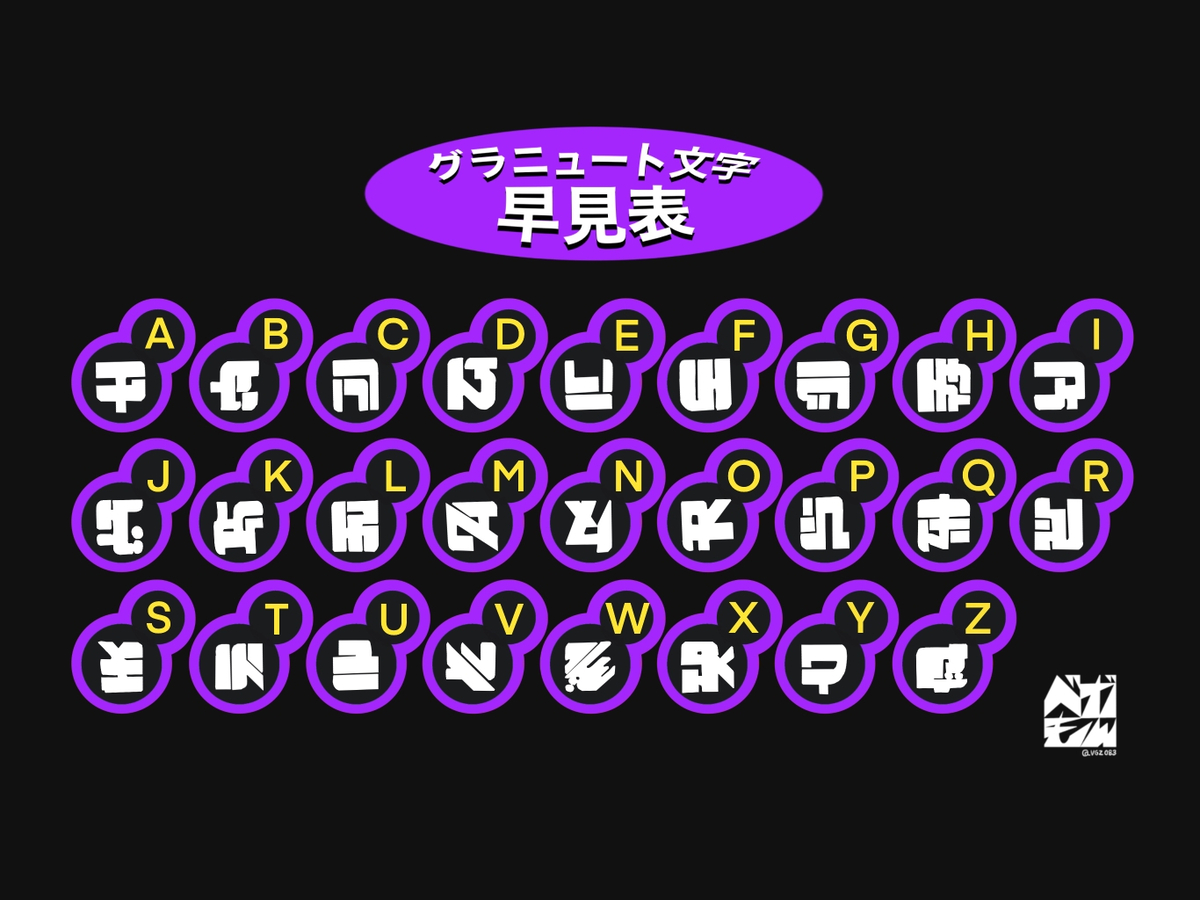
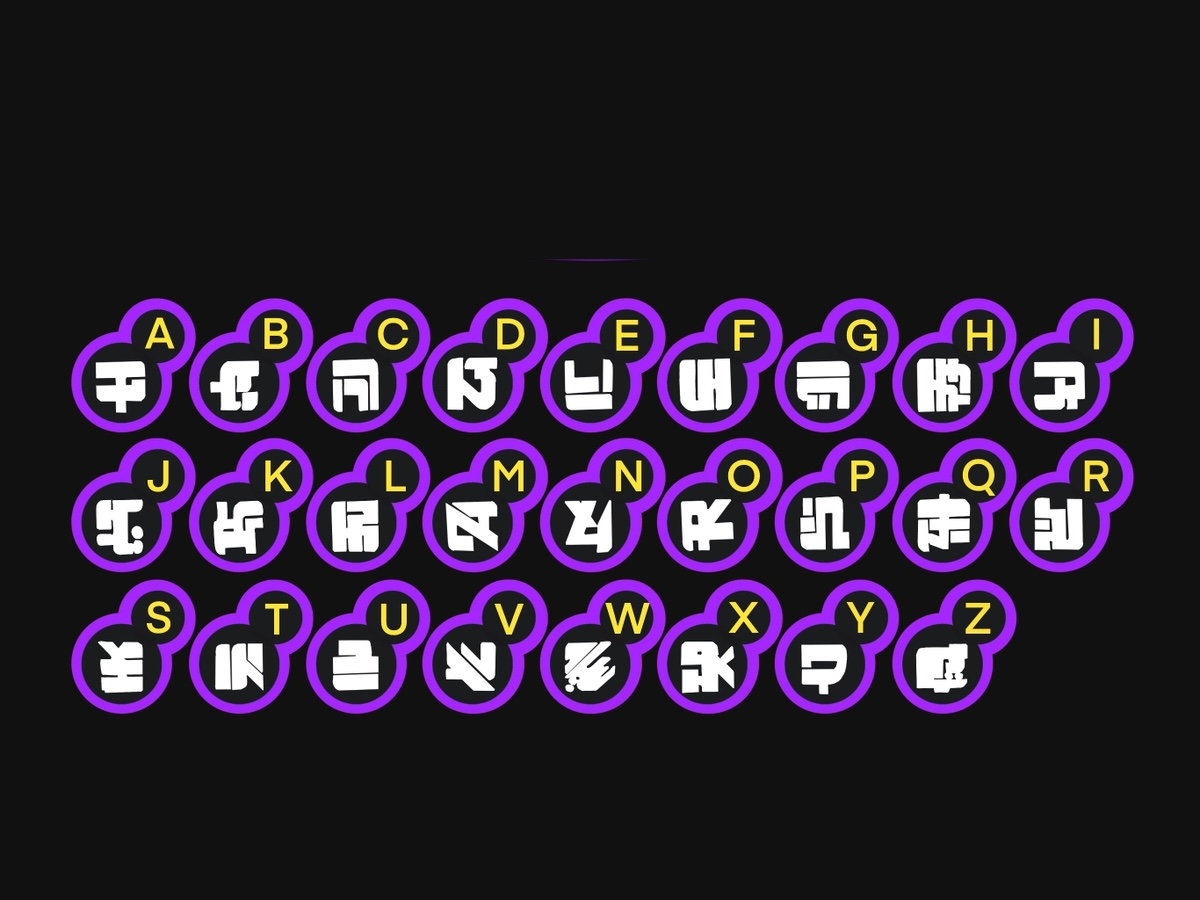
adjusted bubble parameter

Changed region(s): [[0.3083, 0.1244, 0.7092, 0.3111], [0.8633, 0.7467, 0.9558, 0.84]]

diff --git a/training_data/scripts/extract_from_reference.py b/training_data/scripts/extract_from_reference.py
@@ -36,11 +36,11 @@ class GranulateCharacterExtractor:
             blurred,
             cv2.HOUGH_GRADIENT,
             dp=1,
-            minDist=50,  # 円の中心間の最小距離
-            param1=50,   # Cannyエッジ検出の上限閾値
-            param2=30,   # 円の中心を検出するための閾値
-            minRadius=40,  # 最小半径
-            maxRadius=70   # 最大半径
+            minDist=40,  # 円の中心間の最小距離（重複を減らすため少し小さく）
+            param1=40,   # Cannyエッジ検出の上限閾値（より感度を上げる）
+            param2=25,   # 円の中心を検出するための閾値（より多くの円を検出）
+            minRadius=35,  # 最小半径（少し小さく）
+            maxRadius=75   # 最大半径（少し大きく）
         )
         
         all_bubbles = []
@@ -50,7 +50,22 @@ class GranulateCharacterExtractor:
             circles = np.uint16(np.around(circles))
             print(f"検出された円の数: {len(circles[0])}")
             
+            # 重複除去: 近い円を除外
+            filtered_circles = []
             for i, (x, y, r) in enumerate(circles[0]):
+                is_duplicate = False
+                for fx, fy, fr in filtered_circles:
+                    distance = np.sqrt((x - fx)**2 + (y - fy)**2)
+                    if distance < min(r, fr) * 0.8:  # 半径の80%未満の距離なら重複とみなす
+                        is_duplicate = True
+                        break
+                
+                if not is_duplicate:
+                    filtered_circles.append((x, y, r))
+            
+            print(f"重複除去後の円の数: {len(filtered_circles)}")
+            
+            for i, (x, y, r) in enumerate(filtered_circles):
                 # バブル領域を切り出し
                 x1 = max(0, x - r - 10)
                 y1 = max(0, y - r - 10)
@@ -77,6 +92,32 @@ class GranulateCharacterExtractor:
         
         sorted_bubbles = [all_bubbles[i] for i in sorted_indices]
         sorted_info = [all_bubble_info[i] for i in sorted_indices]
+        
+        # グリッドベースの整理（3行×9列を想定）
+        if len(sorted_bubbles) > 27:
+            # y座標で3つのグループに分割
+            y_coords = [info[1] for info in sorted_info]
+            y_sorted = sorted(enumerate(y_coords), key=lambda x: x[1])
+            
+            # 3つの行に分割
+            rows_per_group = len(y_sorted) // 3
+            row1_indices = [idx for idx, _ in y_sorted[:rows_per_group]]
+            row2_indices = [idx for idx, _ in y_sorted[rows_per_group:2*rows_per_group]]
+            row3_indices = [idx for idx, _ in y_sorted[2*rows_per_group:]]
+            
+            # 各行でx座標でソートし、最初の9個を取る
+            final_indices = []
+            for row_indices in [row1_indices, row2_indices, row3_indices]:
+                row_sorted = sorted(row_indices, key=lambda i: sorted_info[i][0])
+                final_indices.extend(row_sorted[:9])
+            
+            # 最終的な27個のバブルを選択
+            if len(final_indices) >= 27:
+                final_bubbles = [sorted_bubbles[i] for i in final_indices[:27]]
+                final_info = [sorted_info[i] for i in final_indices[:27]]
+                
+                print(f"グリッドベースで選択されたバブル数: {len(final_bubbles)}")
+                return final_bubbles, final_info
         
         return sorted_bubbles, sorted_info
     
@@ -417,20 +458,21 @@ class GranulateCharacterExtractor:
         
         print(f"\n不足している文字: {missing_chars}")
         
-        # 位置ベースでマッピングを推測
-        position_based_mapping = {
-            1: 'B',   # 2番目のバブル
-            6: 'H',   # 7番目のバブル  
-            11: 'I',  # 12番目のバブル
-            13: 'J',  # 14番目のバブル
-            16: 'O',  # 17番目のバブル
-            17: 'P',  # 18番目のバブル
-            27: 'X',  # 28番目のバブル
-        }
+        # グリッドベースで27個選択後の、全26文字のマッピング
+        # 3行×9列のレイアウト
+        complete_char_mapping = [
+            # 1行目: A B C D E F G H I
+            'A', 'B', 'C', 'D', 'E', 'F', 'G', 'H', 'I',
+            # 2行目: J K L M N O P Q R  
+            'J', 'K', 'L', 'M', 'N', 'O', 'P', 'Q', 'R',
+            # 3行目: S T U V W X Y Z (最後の1つは数字なので除外)
+            'S', 'T', 'U', 'V', 'W', 'X', 'Y', 'Z'
+        ]
         
+        # 失敗したインデックスとそれに対応する文字をマッピング
         for idx in failed_indices:
-            if idx in position_based_mapping and idx < len(bubbles):
-                char = position_based_mapping[idx]
+            if idx < len(complete_char_mapping) and idx < len(bubbles):
+                char = complete_char_mapping[idx]
                 if char in missing_chars:
                     bubble = bubbles[idx]
                     granulate_char = self.extract_granulate_character(bubble)
@@ -450,6 +492,33 @@ class GranulateCharacterExtractor:
                         manual_mapping[char] = str(char_dir / filename)
                         print(f"手動マッピング: インデックス {idx} → {char}")
         
+        # まだ不足している文字がある場合、追加でマッピング
+        remaining_missing = sorted(set(missing_chars) - set(manual_mapping.keys()))
+        if remaining_missing:
+            print(f"\nまだ不足している文字: {remaining_missing}")
+            # 各文字のインデックスを見つけて追加
+            for char in remaining_missing:
+                if char in complete_char_mapping:
+                    idx = complete_char_mapping.index(char)
+                    if idx < len(bubbles):
+                        bubble = bubbles[idx]
+                        granulate_char = self.extract_granulate_character(bubble)
+                        
+                        if granulate_char is not None:
+                            # 保存ディレクトリを作成
+                            char_dir = output_path / char
+                            char_dir.mkdir(exist_ok=True)
+                            
+                            # 画像を保存  
+                            filename = f"{char}_reference.png"
+                            cv2.imwrite(str(char_dir / filename), granulate_char)
+                            
+                            # バブル画像も保存
+                            cv2.imwrite(str(char_dir / f"{char}_bubble.png"), bubble)
+                            
+                            manual_mapping[char] = str(char_dir / filename)
+                            print(f"追加マッピング: インデックス {idx} → {char}")
+        
         return manual_mapping
     
     def visualize_extraction(self):
@@ -462,11 +531,11 @@ class GranulateCharacterExtractor:
             blurred,
             cv2.HOUGH_GRADIENT,
             dp=1,
-            minDist=50,
-            param1=50,
-            param2=30,
-            minRadius=40,
-            maxRadius=70
+            minDist=40,
+            param1=40,
+            param2=25,
+            minRadius=35,
+            maxRadius=75
         )
         
         # 検出結果を描画
